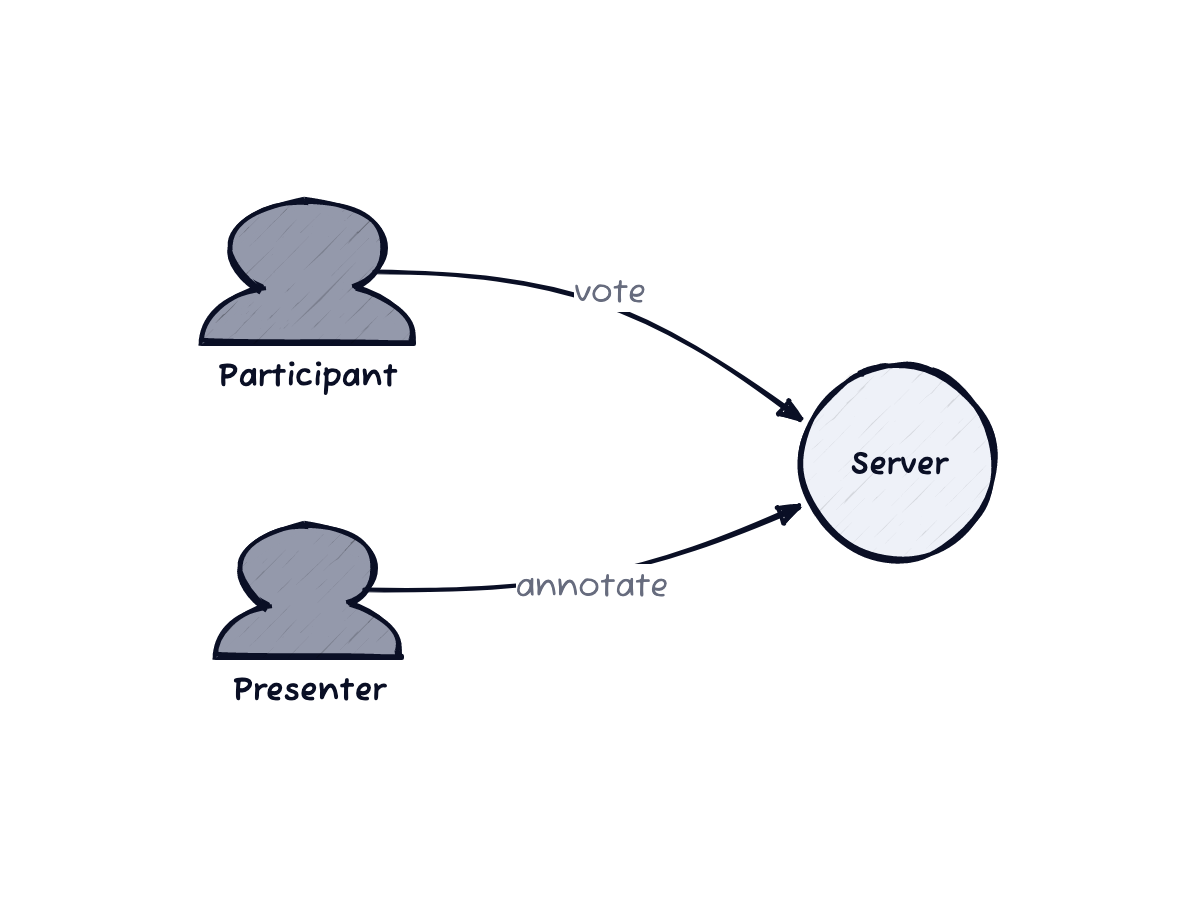
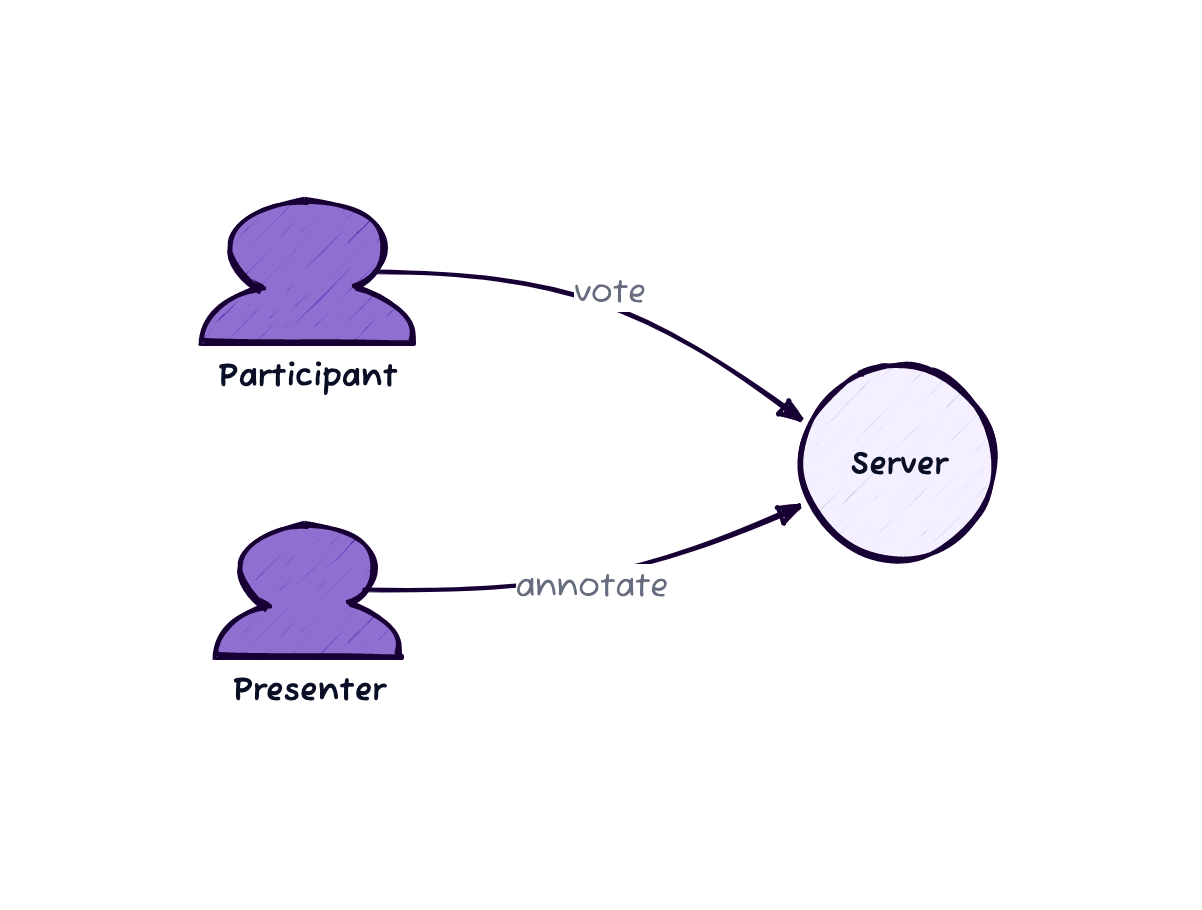
present: Update illustrations

Changed region(s): [[0.1539, 0.2154, 0.3386, 0.4], [0.1847, 0.5538, 0.3386, 0.7385]]

diff --git a/present/static/slides.js b/present/static/slides.js
@@ -205,6 +205,7 @@ function updateSlides() {
 }
 
 function prevSlide() {
+  jumpSlide = -1;
   hideHelpText();
   if (curSlide > 0) {
     curSlide--;
@@ -216,6 +217,7 @@ function prevSlide() {
 }
 
 function nextSlide() {
+  jumpSlide = -1;
   hideHelpText();
   if (curSlide < slideEls.length - 1) {
     curSlide++;

diff --git a/present/umdd/generate.go b/present/umdd/generate.go
@@ -1,6 +1,6 @@
 package umdd
 
-//go:generate d2 -t 1 --sketch case-vote.d2 case-vote.png
-//go:generate d2 -t 1 --sketch case-annotate.d2 case-annotate.png
-//go:generate d2 -t 1 --sketch case-fetch.d2 case-fetch.png
+//go:generate d2 -t 7 --sketch case-vote.d2 case-vote.png
+//go:generate d2 -t 7 --sketch case-annotate.d2 case-annotate.png
+//go:generate d2 -t 7 --sketch case-fetch.d2 case-fetch.png
 //go:generate d2 -t 7 --sketch umdd-diagram.d2 umdd-diagram.png
